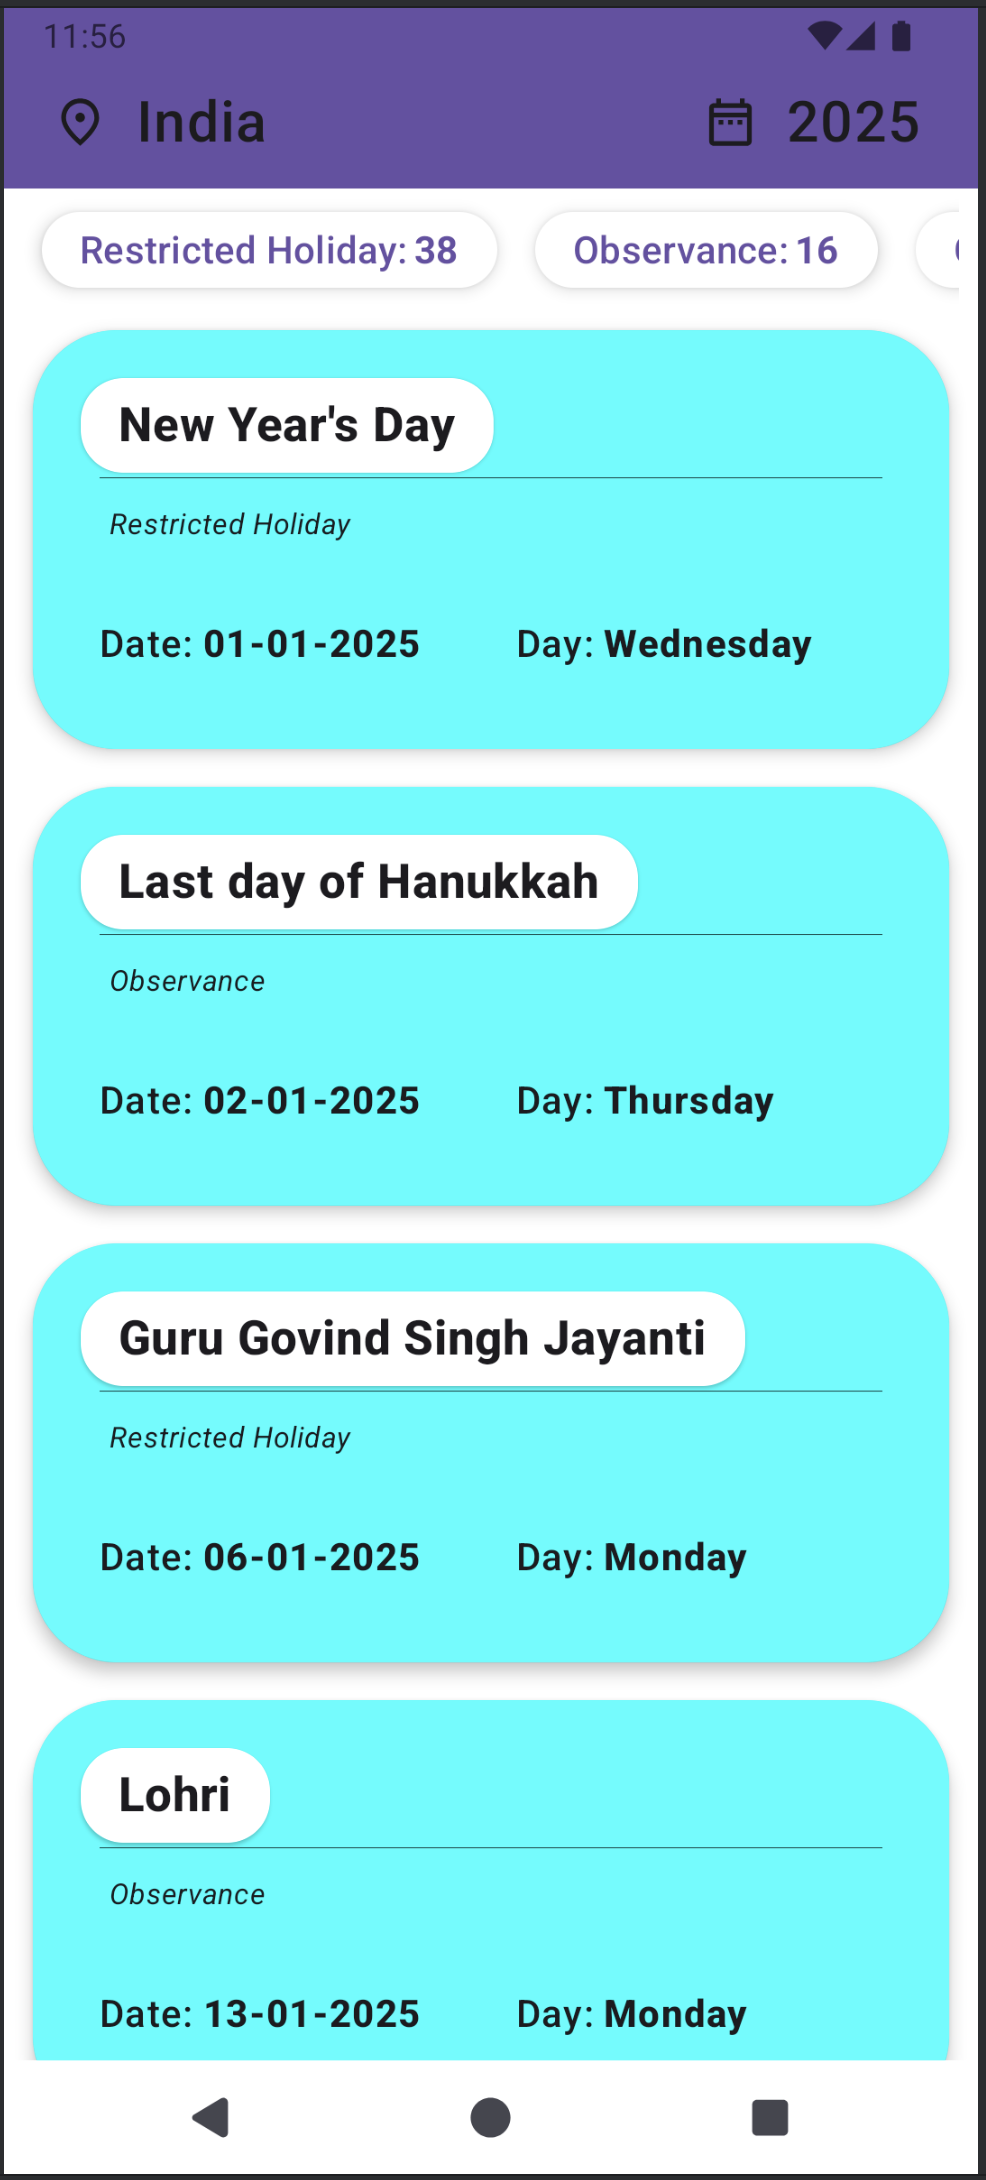
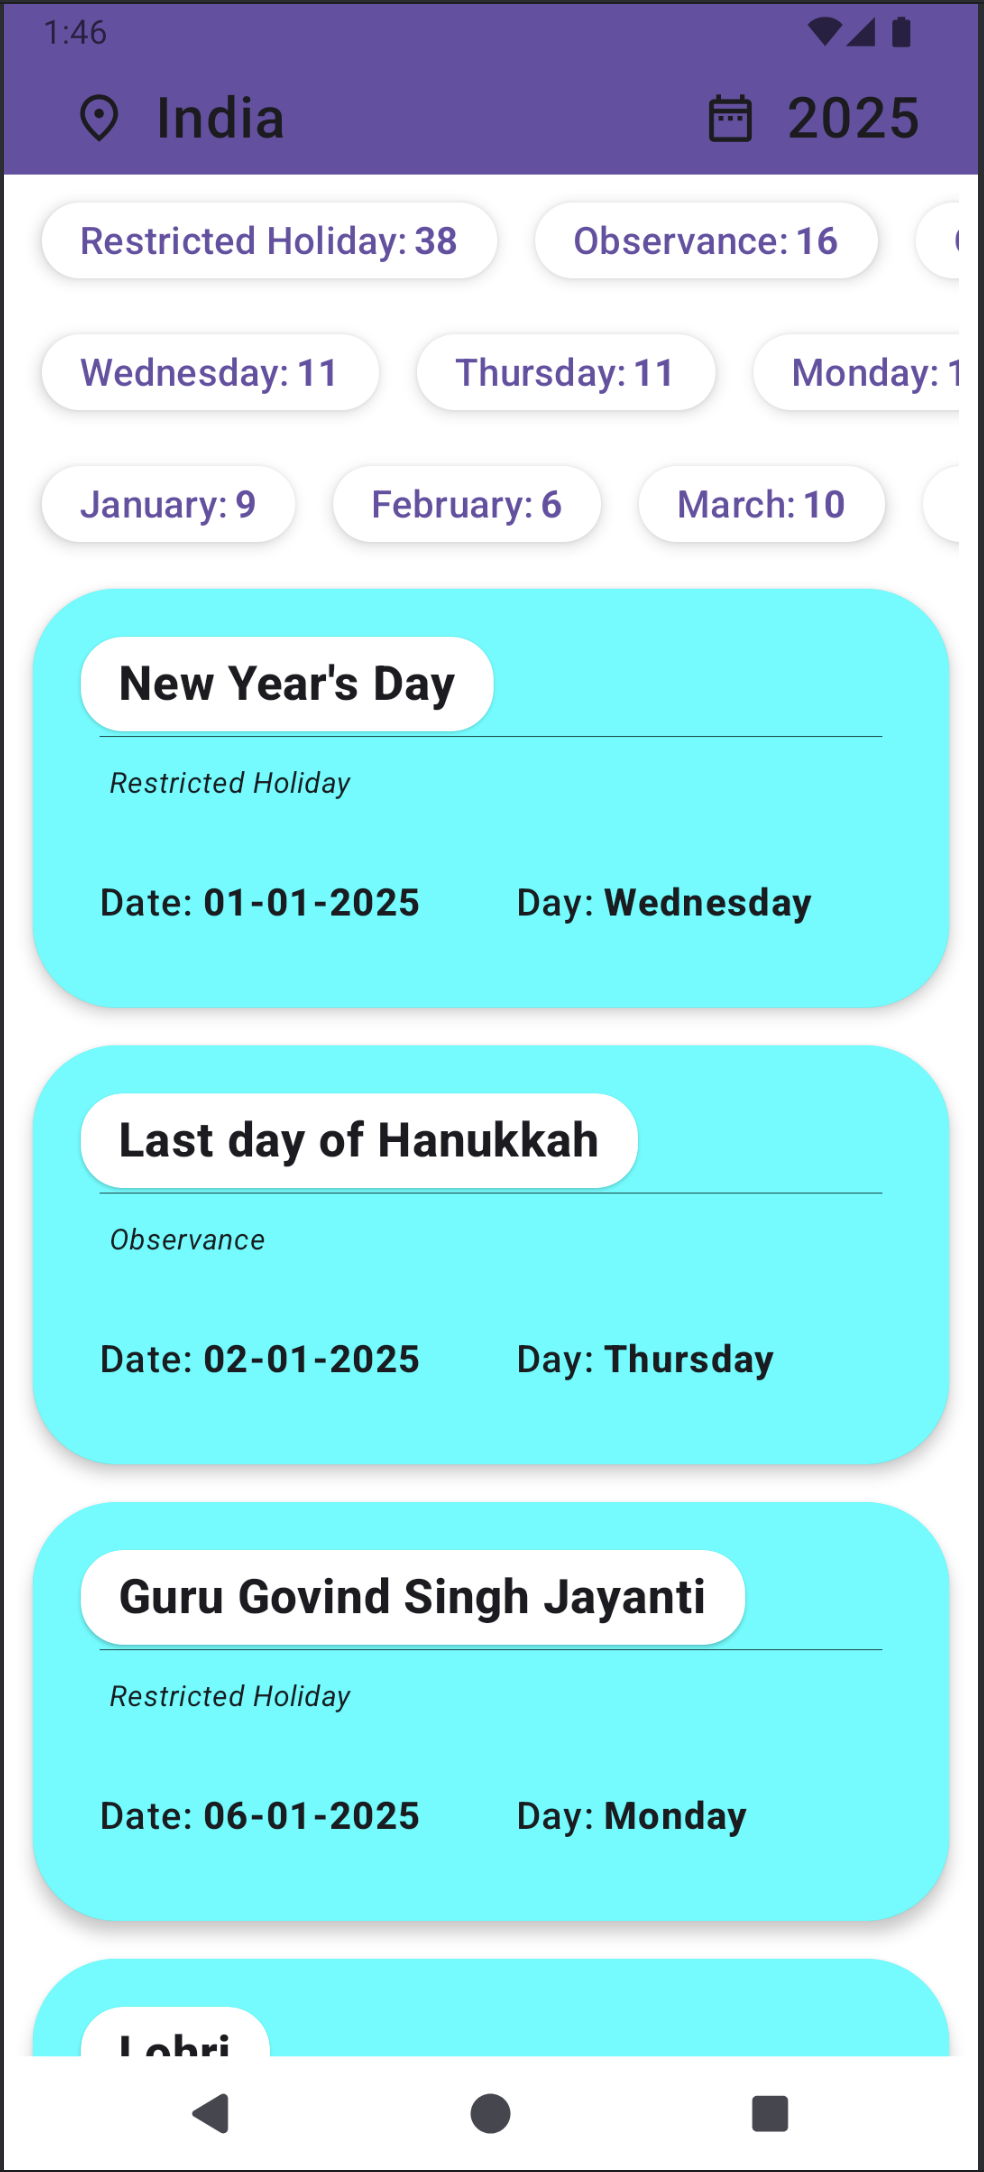
V2 - filter

diff --git a/app/src/main/java/com/holidayfinder/pages/holidayPage/HolidayPage.kt b/app/src/main/java/com/holidayfinder/pages/holidayPage/HolidayPage.kt
@@ -66,7 +66,6 @@ fun HolidayPage(dataManager: DataManager, modifier: Modifier = Modifier) {
                     )
                 }
             }
-
             // Filters ------------------------------------------------------------------------------------------
             item {
                 Filters.HolidayTypeFilter(
@@ -88,7 +87,7 @@ fun HolidayPage(dataManager: DataManager, modifier: Modifier = Modifier) {
                         selectedMonthFilters.value = it
                     })
             }
-
+            // Cards ---------------------------------
             items(dataManager.holidayList) { holiday ->
                 val day = getDay(holiday.date)
                 val month = getMonth(holiday.date)
